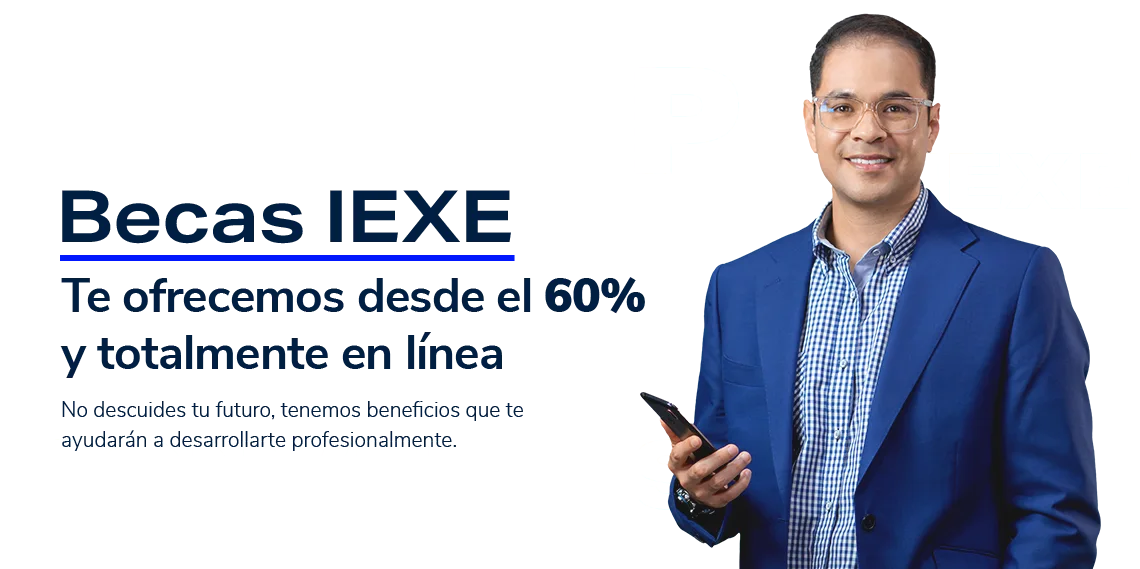
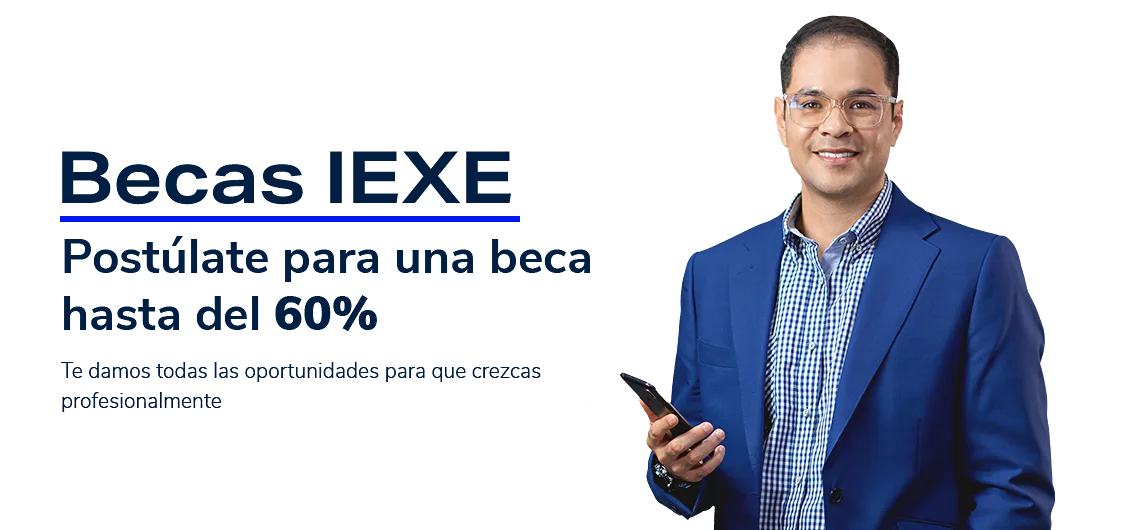
Fixing tipos

Changed region(s): [[0.0307, 0.0, 0.9825, 1.0], [0.0307, 0.6943, 0.4912, 0.7849]]

diff --git a/assets/css/style.css b/assets/css/style.css
@@ -558,6 +558,10 @@ span.redes{
     font-weight: 300;
     letter-spacing: 0px;
 }
+#pie li a:hover {
+    color: var(--primario-cyan);
+    text-decoration: none;
+}
 #pie span.redes-sociales {
     display: block;
     text-align: center;
@@ -702,6 +706,9 @@ nav#nav-primaria {
 }
 h1.titulo {
     margin-bottom: 10px;
+}
+section#oferta-educativa a:hover {
+    text-decoration: none;
 }
 .menu {
     background: var(--primario-azul);
@@ -1299,11 +1306,12 @@ select.periodo {
     color: #FFF;
     height: 46px;
     font-size: 22px;
-    letter-spacing: -2px;
-    font-family: var(--familia-titulos);
+    letter-spacing: 1px;
+    font-family: var(--familia-general);
     padding: 6px 16px;
     width: 100%;
     border: none;
+    font-weight: 700;
 }
 select#seleccionperiodo {
     text-align-last: center;
@@ -1321,6 +1329,9 @@ div#desc-programa {
 }
 div#que-vas-a-aprender {
     display: inherit;
+}
+#comunidad #seleccion-categoria .categoria-img {
+    height: 340px;
 }
 .bloque-materia {
     background: url(../img/fondoMaterias.svg);
@@ -1791,6 +1802,18 @@ p.description {
 width: 100%;
 object-fit: cover
 }
+#problemaModal i {
+    color: orange;
+    text-align: center;
+    font-size: 38px;
+    margin: 0 auto;
+}
+#problemaModal span {
+    /* margin: 0 auto; */
+    width: 100%;
+    text-align: center;
+    display: block;
+}
 /*
     Optimizacion Sprites
 */
@@ -1937,6 +1960,10 @@ h1.nombre-programa {
     font-size: 18px;
     letter-spacing: 0.27px;
     line-height: 36px;
+}
+.contenedor-programa ul li a:hover {
+    font-weight: 800;
+    text-decoration: none;
 }
 section#diplomados .contenedor-programa ul li a {
     color: #e3e3e3;

diff --git a/becas.php b/becas.php
@@ -11,7 +11,7 @@ Template Name: Becas
             <div class="mask flex-center">
               <div class="container">
                   <div class="row">
-                            <div class="col-md-12"><img style="margin-top: -138px;width: 90%;" class="img-fluid" src="<?php echo esc_url(esc_url(get_template_directory_uri())) ?>/assets/img/becas-slide.webp" alt=""></div>
+                            <div class="col-md-12"><img style="margin-top: -103px;width: 90%;" class="img-fluid" src="<?php echo esc_url(esc_url(get_template_directory_uri())) ?>/assets/img/becas-slide.webp" alt=""></div>
                   </div>
               </div>
             </div>
@@ -202,94 +202,7 @@ Template Name: Becas
     </div>
 </section> -->
 
-<section id="calcula-beca">
-    <div class="container">
-        <div class="row beca">
-            <div class="col">
-                <h1 class="titulo">¡Calcula el monto de tu beca!</h1>
-            </div>
-        </div>
-        <div class="row">
-            <div class="col-md-6">
-                <img src="<?php echo esc_url(get_template_directory_uri()) ?>/assets/img/escudo-becas.webp" alt="" class="img-fluid">
-            </div>
-            <div class="col-md-6">
-                <p>Someday is not a fucking day of the week. Whatever can be captured in words can be conquered with understanding. Defy fucking convention. If you don’t test your will against the dissent of the world, it can never grow stronger.</p>
-                <div id="pasos-formulario" class="">
-                    <ul id="progressbar">
-                        <li class="active">Paso</li>
-                        <li>Paso</li>
-                        <li>Paso</li>
-                    </ul>
-
-                </div>
-                <form id="calcula-beca">
-                    <!-- progressbar -->
-                    <!-- <div class="progress">
-                        <div class="progress-bar progress-bar-striped progress-bar-animated" role="progressbar" aria-valuemin="0" aria-valuemax="100"></div>
-                    </div> <br> fieldsets -->
-                    <fieldset>
-                        <div class="form-card">
-                            <label class="fieldlabels">Nombre</label> <input type="text" name="uname" placeholder="Ingresa aquí tu nombre" /><label class="fieldlabels">Email: *</label> <input type="email" name="email" placeholder="Ingresa aquí tu correo electrónico" /><label class="fieldlabels">Teléfono: *</label> <input type="email" name="email" placeholder="Ingresa aquí tu número telefónico" />
-                            <div class="row">
-                                <div class="col-7">
-                                    <!-- <h2 class="fs-title">Account Information:</h2> -->
-                                </div>
-                                <div class="col-5">
-                                    <!-- <h2 class="steps">Paso 1 - 4</h2> -->
-                                </div>
-                            </div> 
-                        </div> 
-                        
-                        <button type="button" name="next" class="next btn btn-primario float-right mt-3">Siguiente</button>
-                    </fieldset>
-                    <fieldset>
-                        <div class="form-card">
-                            
-                            <label class="fieldlabels">Nombre: *</label> <input type="text" name="fname" placeholder="Nombre" /> <label class="fieldlabels">Apellido *</label> <input type="text" name="apellido" placeholder="Last Name" /> <label class="fieldlabels">Teléfono: *</label> <input type="text" name="tel" placeholder="Teléfono" />
-                            <div class="row">
-                                <div class="col-7">
-                                    <!-- <h2 class="fs-title">Personal Information:</h2> -->
-                                </div>
-                                <div class="col-5">
-                                    <!-- <h2 class="steps">Paso 2 - 4</h2> -->
-                                </div>
-                            </div>
-                        </div>
-                        <button type="button" name="next" class="next btn btn-primario float-right mt-3">Siguiente</button> <!--<button type="button" name="previous" class="previous btn btn-primario float-right mt-3">Anterior</button>  -->
-                    </fieldset>
-                    <fieldset>
-                        <div class="form-card">
-                            <div class="row">
-                                <div class="col-7">
-                                    <!-- <h2 class="fs-title">Image Upload:</h2> -->
-                                </div>
-                                <div class="col-5">
-                                    <!-- <h2 class="steps">paso 3 - 4</h2> -->
-                                </div>
-                            </div> <label class="fieldlabels">Tu INE:</label> <input type="file" name="pic" accept="image/*"> <label class="fieldlabels">Tu comprobante:</label> <input type="file" name="pic" accept="image/*">
-                        </div> 
-                         <button type="button" name="next" class="next btn btn-primario float-right mt-3">Generar</button><!-- <input type="button" name="next" class="next action-button" value="Generar" /> <input type="button" name="previous" class="previous action-button-previous" value="Anterior" /> -->
-                    </fieldset>
-                    <fieldset>
-                        <div class="form-card">
-                            <h2 class="text-center"><strong>Esta es la beca a la que podrás acceder</strong></h2> <br>
-                            <div class="row justify-content-center">
-                                <div class="col-3"> <img src="https://i.imgur.com/GwStPmg.png" class="fit-image"> </div>
-
-                            <div class="row justify-content-center">
-                                <div class="col-7 text-center">
-                                    <h5 class="text-center">*Sujeto a la revisión del equipo correspondiente de IEXE</h5>
-                                </div>
-                            </div>
-                        </div>
-                    </fieldset>
-                </form>
-                
-            </div>
-        </div>
-    </div>
-</section>
+<?php get_template_part( 'template-parts/calcula-beca'); ?>
 
 <section id="banner">
     <div class="container">

diff --git a/footer.php b/footer.php
@@ -78,15 +78,19 @@
             <div class="row">
                 <div class="col-12">
                     <div class="informacion-importante">
+                        <div class="bloque">
+                        
                             <p>Todos los derechos reservados IEXE 2021.</p>
                             <?php
                             wp_nav_menu( array(
                                 'container' => '',
                                 'theme_location' => 'pie_principal',
-                                'menu_class' => 'menu-footer'
+                                'menu_class' => 'menu-footer',
+                                'items_wrap' => '%3$s'
                             ) );
                             ?>
                         <!-- <p>Todos los derechos reservados IEXE 2021. </p> <a href="#"> Aviso de Privacidad</a> | <a href="#">Términos y condiciones</a> | <a href="#">Mapa del sitio</a> | <a href="#">Contacto</a> | -->
+                        </div>
                     </div>
                     
                 </div>
@@ -281,27 +285,15 @@ $('#interes button.btn.btn-primario').click(function(){
     success: function(data){
         console.log(data);
         if(data == true || data == "saved"){
-            console.log("se salvó");
-            $("#exampleModal").modal('show');
+            console.log("se salvó :)");
+            $("#problemaModal").modal('show');
 
         }else if(data == "duplicated"){
             console.log("Ya hay un registro con este correo electrónico");
         } else{
-            $("#exampleModal").modal('show');
-            console.log("Ocurrió un error, por favor intentalo más tarde");
+            $("#guardadoModal").modal('show');
+            
         }
-        // if(data[0]['saved'] == true){
-        //     $("#modalExito").modal('show');
-        //     console.log(data[0]);
-        //     //console.log(data);
-        //     console.log(data[0]['fields'])
-        // }else {
-        //     $("#modalFracaso").modal('show');
-        //     $("#error-alerta").html(data[0]['reason']);
-        //     console.log(data[0]['reason']);
-        //     console.log(data[0]['fields'])
-        // }
-        //
     },
     error: function(data){
         console.log("No se logró contactar al servidor");
@@ -313,17 +305,59 @@ $('#interes button.btn.btn-primario').click(function(){
 });
 });
   </script>
-  <div class="modal fade" id="exampleModal" tabindex="-1" aria-labelledby="exampleModalLabel" aria-hidden="true">
-  <div class="modal-dialog">
+  <div class="modal fade" id="guardadoModal" tabindex="-1" aria-labelledby="guardadoModalLabel" aria-hidden="true">
+  <div class="modal-dialog modal-dialog-centered">
     <div class="modal-content">
       <div class="modal-header">
-        <h5 class="modal-title" id="exampleModalLabel">Se han registrado sus datos</h5>
+        <h5 class="modal-title titulo" id="guardadoModalLabel">Se han registrado sus datos</h5>
         <button type="button" class="close" data-dismiss="modal" aria-label="Close">
           <span aria-hidden="true">&times;</span>
         </button>
       </div>
       <div class="modal-body">
-        Nuestro equipo se pondrá en contácto con usted
+          <p class="description">Nuestro equipo se pondrá en contácto con usted</p>
+          <img style="height: 150px; margin: 0 auto; text-align: center; display: block;" class="img-fluid" src="<?php echo esc_url(esc_url(get_template_directory_uri())) ?>/assets/img/alegria.jpg" alt="">
+      </div>
+      <div class="modal-footer">
+        <button type="button" class="btn btn-secondary" data-dismiss="modal">Cerrar</button>
+      </div>
+    </div>
+  </div>
+</div>
+<div class="modal fade" id="problemaModal" tabindex="-1" aria-labelledby="problemaModalLabel" aria-hidden="true">
+  <div class="modal-dialog modal-dialog-centered">
+    <div class="modal-content">
+      <div class="modal-header">
+        <h5 class="modal-title titulo" id="problemaModalLabel">Ha ocurrido un error</h5>
+        <button type="button" class="close" data-dismiss="modal" aria-label="Close">
+          <span aria-hidden="true">&times;</span>
+        </button>
+      </div>
+      <div class="modal-body">
+          <p class="description">Por favor verifique que todos los campos fueron llenados y que la información proporcionada es correcta e intente de nuevo.</p>
+          <!-- <span><i class="uil uil-exclamation-octagon"></i></span> -->
+          <img style="height: 150px; margin: 0 auto; text-align: center; display: block;" class="img-fluid" src="<?php echo esc_url(esc_url(get_template_directory_uri())) ?>/assets/img/triste.webp" alt="">
+      </div>
+      <div class="modal-footer">
+        <button type="button" class="btn btn-secondary" data-dismiss="modal">Cerrar</button>
+        
+      </div>
+    </div>
+  </div>
+</div>
+<div class="modal fade" id="servidorModal" tabindex="-1" aria-labelledby="servidorModalLabel" aria-hidden="true">
+  <div class="modal-dialog modal-dialog-centered">
+    <div class="modal-content">
+      <div class="modal-header">
+        <h5 class="modal-title titulo" id="servidorModalLabel">Ha ocurrido un error</h5>
+        <button type="button" class="close" data-dismiss="modal" aria-label="Close">
+          <span aria-hidden="true">&times;</span>
+        </button>
+      </div>
+      <div class="modal-body">
+          <p class="description">El servidor remoto no ha podido contactarse, le rogamos vuelva a intentarlo y si el problema persiste por favor contactenos.</p>
+          <!-- <span><i class="uil uil-exclamation-octagon"></i></span> -->
+          <img style="height: 150px; margin: 0 auto; text-align: center; display: block;" class="img-fluid" src="<?php echo esc_url(esc_url(get_template_directory_uri())) ?>/assets/img/ira.jpg" alt="">
       </div>
       <div class="modal-footer">
         <button type="button" class="btn btn-secondary" data-dismiss="modal">Cerrar</button>

diff --git a/home.php b/home.php
@@ -77,7 +77,7 @@
         <div class="container">
             <div class="row">
                 <div class="col">
-                    <a href="/oferta-educativa/"><h1 class="titulo">Oferta Educativa</h1></a>
+                    <a href="/oferta-educativa/"><h1 class="titulo">Programas académicos</h1></a>
                     <h2 class="description">Conoce nuestros programas 100% en línea. ¡Desarróllate, especialízate y concreta tu futuro profesional!</h2>
                 </div>
             </div>

diff --git a/page-blog.php b/page-blog.php
@@ -6,7 +6,7 @@
         <div class="row">
             <div class="col-md-6">
                 <h1 class="titulo">Categorías</h1>
-                <h2 class="description">Elige el programa en el que deseas inscribirte para ver todo el proceso</h2>
+                <h2 class="description">¡Traemos la información más reciente en Políticas Públicas y otros temas de interés IEXE!</h2>
             </div>
             <div class="col-md-3">
             </div>
